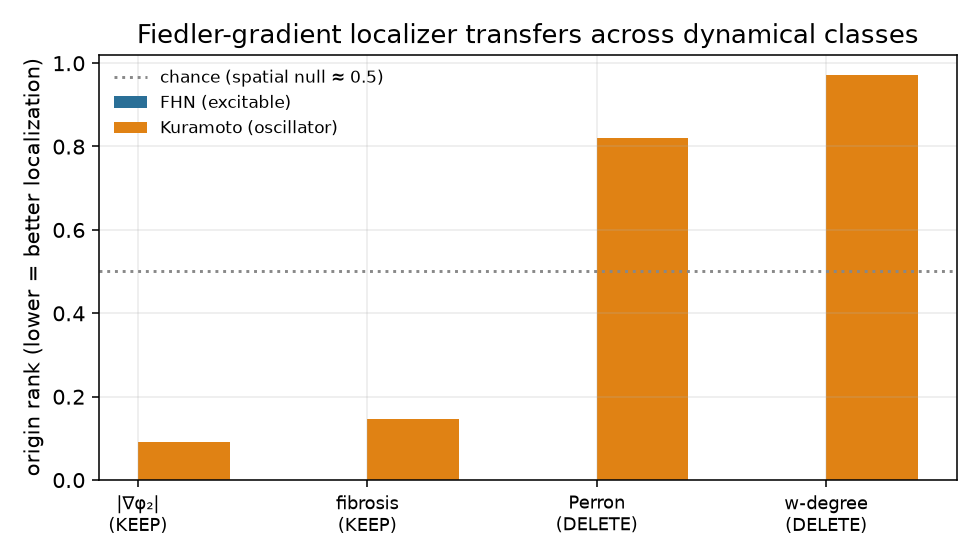
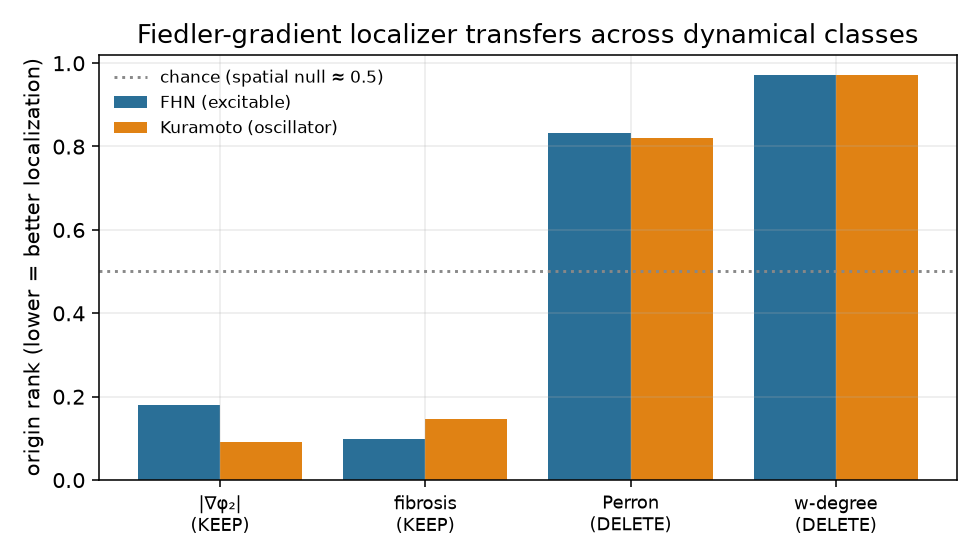
Fix missing FHN bars in the localizer-transfer figure
The FHN series was silently dropped: gm4_scaled_metrics.json stores the origin
rank under the key `rank`, while _fields() filtered/read `mean_origin_rank`
(the key used by the kuramoto and 100k files), so every FHN value came back NaN
and no blue bars were drawn. Normalize both key names in _fields().

FHN now plots grad_phi2 0.18, fibrosis 0.10 (KEEP; low rank) and perron 0.83,
w-degree 0.97 (DELETE; high rank) -- matching Table 3 and mirroring the Kuramoto
pattern, which is the point of the "transfers across dynamical classes" figure.

Claude-Session: https://claude.ai/code/session_011r6hRT2tay9z8UF89cvHUt

diff --git a/scripts/make_paper_figures.py b/scripts/make_paper_figures.py
@@ -102,8 +102,15 @@ def fig_localizer_transfer():
     media = []
     def _fields(m):
         loc = m.get("localize", {})
-        f = loc.get("fields", loc)  # kuramoto nests under 'fields'; scaled is flat
-        return {k: v for k, v in f.items() if isinstance(v, dict) and "mean_origin_rank" in v}
+        f = loc.get("fields", loc)  # kuramoto/100k nest under 'fields'; scaled is flat
+        out = {}
+        for k, v in f.items():
+            if not isinstance(v, dict):
+                continue
+            r = v.get("mean_origin_rank", v.get("rank"))  # gm4_scaled uses 'rank'
+            if r is not None:
+                out[k] = {"mean_origin_rank": r}
+        return out
     sc = _load("results/gm4_scaled_metrics.json")
     if sc:
         media.append(("FHN (excitable)", _fields(sc)))
